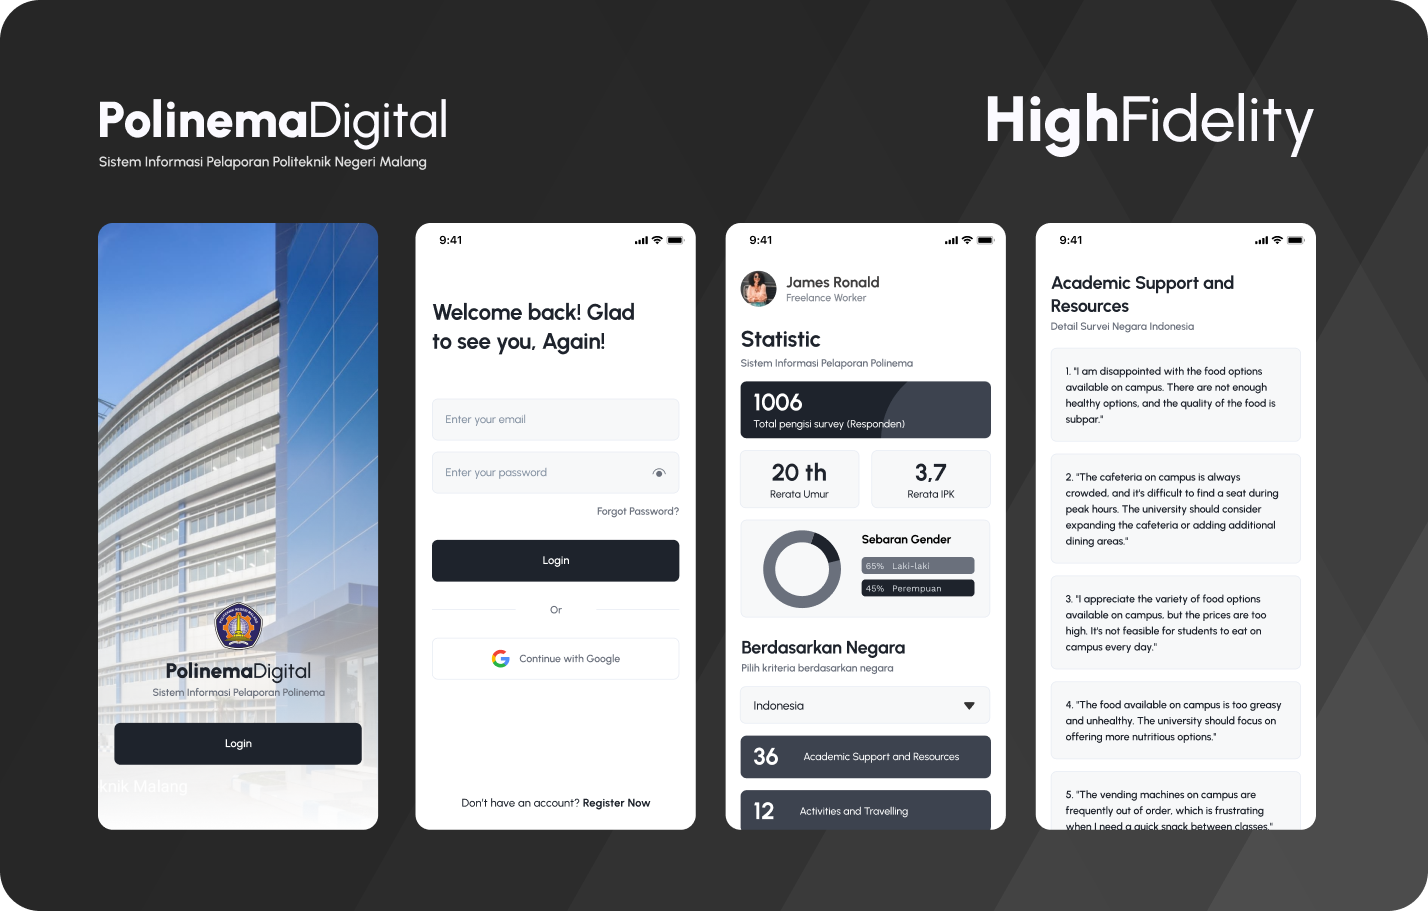
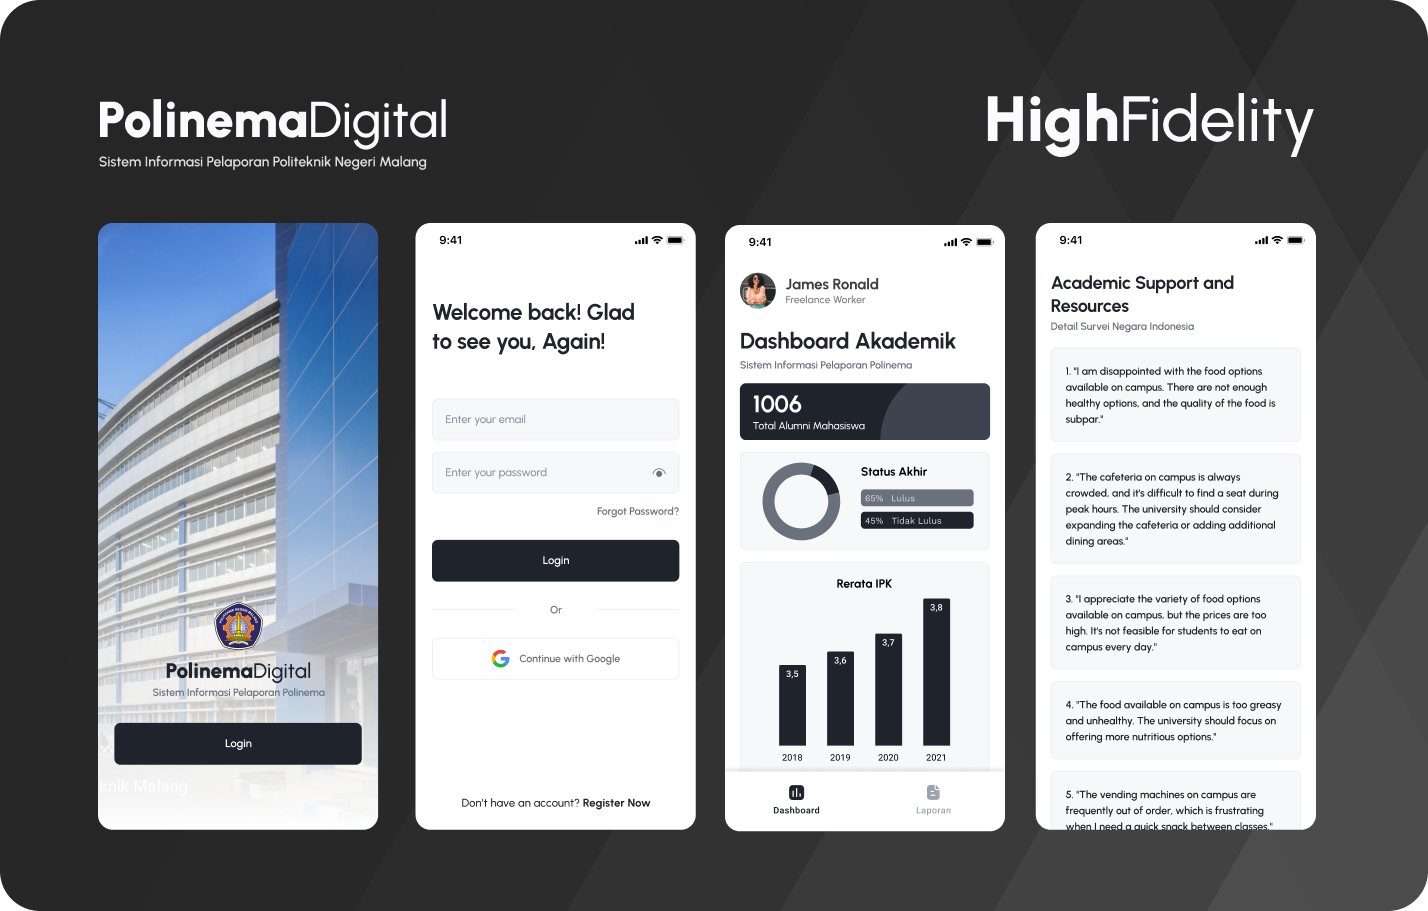
docs: update documentation (README.md)

Changed region(s): [[0.493, 0.3688, 0.7087, 0.9221], [0.493, 0.2459, 0.6162, 0.3381], [0.6471, 0.2459, 0.7087, 0.2766]]

diff --git a/README.md b/README.md
@@ -9,7 +9,7 @@
    - akun github: https://github.com/HalimTeguh
 3. M. Ilham Maulidin (2141762087) sebagai Back-End Developer (Laravel)
    - akun github: https://github.com/Maulidin-Ilham
-5. Nabila Rasyidah (2141762047) sebagai Dokumentasi
+5. Nabila Rasyidah (2141762047) sebagai Dokumentalis
    - akun github: https://github.com/nabilarasyidah
 
 &nbsp;
@@ -17,21 +17,17 @@
 #
 # ❓ The Brief…
 
-Pendidikan tinggi memainkan peran penting dalam perkembangan pribadi dan profesional mahasiswa. Salah satu aspek kunci dari pendidikan tinggi adalah kualitas layanan yang diberikan oleh institusi pendidikan. Institusi tersebut bertanggung jawab untuk menyediakan lingkungan yang mendukung pembelajaran dan perkembangan mahasiswa.
+Pendidikan tinggi memainkan peran penting dalam perkembangan pribadi dan profesional mahasiswa. Beberapa aspek kunci dari pendidikan tinggi adalah kualitas layanan yang diberikan oleh institusi pendidikan serta monitoring terhadap dinamika akademik yang terjadi. Institusi tersebut bertanggung jawab untuk menyediakan lingkungan yang mendukung pembelajaran dan perkembangan mahasiswa.
 
-Mr. X adalah seorang administrator atau staf di Politeknik Negeri Malang yang berkomitmen untuk meningkatkan kualitas layanan yang disediakan kepada mahasiswa. Untuk mencapai tujuan ini, dia merasa perlu untuk mendapatkan masukan dari para mahasiswa mengenai pengalaman mereka di kampus. Oleh karena itu, dia memutuskan untuk melakukan survei yang berfokus pada masalah komplain yang mungkin dihadapi oleh mahasiswa.
+Mr. X adalah seorang administrator atau staf di Politeknik Negeri Malang yang berkomitmen untuk meningkatkan kualitas layanan yang disediakan kepada mahasiswa. Untuk mencapai tujuan ini, dia merasa perlu untuk mendapatkan masukan dari para mahasiswa mengenai pengalaman mereka di kampus. Selain itu, dia juga perlu melakukan monitoring terhadap nilai mahasiswa serta angka kelulusan di tiap tahunnya.
 
-Survei ini difokuskan pada mahasiswa kelas Internasional, karena mereka mungkin memiliki perspektif yang berbeda atau kebutuhan khusus dalam hal sumberdaya akademik, dukungan, dan layanan lainnya. Melalui pengumpulan data dari partisipan survei ini, Mr. X berharap untuk memahami masalah yang mungkin dihadapi mahasiswa kelas Internasional dan mencari solusi untuk meningkatkan kualitas layanan.
-
-Survey ini mencakup tiga faktor utama yang menjadi perhatian, yaitu Sumberdaya dan Dukungan Akademik (Academic Support and Resources), Layanan Kantin dan Makanan (Food and Cantines), dan faktor "lainnya" yang mungkin mencakup berbagai masalah yang tidak termasuk dalam dua kategori utama tersebut. Data yang dikumpulkan dari survei ini akan memberikan wawasan awal tentang masalah yang perlu ditangani dan area di mana perbaikan diperlukan.
-
-Mr. X memutuskan untuk menggunakan aplikasi mobile sebagai alat untuk melakukan survei ini karena kepraktisan dan keterjangkauan teknologi ini. Dengan memanfaatkan aplikasi mobile, data mentah akan dikumpulkan dengan lebih efisien dan akurat, dan hasil survei ini akan membantu memandu langkah-langkah selanjutnya dalam upaya meningkatkan kualitas layanan pendidikan dan aspek pendukung di kampus.
+Mr. X memutuskan untuk menggunakan aplikasi mobile sebagai alat mengelola data akademik serta data hasil survey. Dengan memanfaatkan aplikasi mobile, data mentah akan dikumpulkan dengan lebih efisien dan akurat, dan visualisasinya akan membantu memandu langkah-langkah selanjutnya dalam upaya meningkatkan kualitas layanan pendidikan dan aspek pendukung di kampus.
 
 &nbsp;
 
 #
 # 🤔 What makes a good App?
-Karena setiap dashboard data hasil survei biasanya dibuat dengan tujuan tertentu, seperti menyajikan data survei kepada pemangku kepentingan atau menginformasikan keputusan berdasarkan data, maka kesuksesannya sangat bergantung pada seberapa informatif dan efektif desain yang kita buat.
+Karena setiap dashboard visualisasi data biasanya dibuat dengan tujuan tertentu, seperti menyajikan data survei kepada pemangku kepentingan atau menginformasikan keputusan berdasarkan data, maka kesuksesannya sangat bergantung pada seberapa informatif dan efektif desain yang kita buat.
 ![image](./Images/UserCenteredDesign.png)
 
 Berikut ini adalah beberapa poin penting yang harus di perhatikan ketika membuat sebuah desain dashboard aplikasi mobile:
@@ -48,9 +44,9 @@ Berikut ini adalah beberapa poin penting yang harus di perhatikan ketika membuat
 # ⚽ The Goals
 Setidaknya ada 2 goal yang harus dicapai pada pembangunan aplikasi ini:
 1. Business Goal
-Aplikasi ini bertujuan untuk memberikan pemangku kepentingan (seperti manajemen, fakultas, atau staf administrasi) alat yang dapat digunakan untuk membuat keputusan strategis yang didasarkan pada data survei, yang pada gilirannya akan meningkatkan kualitas layanan dan pengalaman mahasiswa.
+Aplikasi ini bertujuan untuk memberikan pemangku kepentingan (seperti manajemen, fakultas, atau staf administrasi) aplikasi dapat digunakan untuk membuat keputusan strategis yang didasarkan pada data akademik dan  survei, yang pada akhirnya akan meningkatkan kualitas layanan dan kompentensi mahasiswa.
 2. Conversion Goal
-Jika tujuan utama adalah meningkatkan jumlah mahasiswa (asumsikan peningkatan daya jual kampus), conversion goal bisa mencakup berapa banyak mahasiswa yang tetap di Politeknik Negeri Malang dan berapa peningkatan mahasiswa baru setelah perubahan yang diimplementasikan berdasarkan temuan survei.
+Jika tujuan utama adalah meningkatkan jumlah mahasiswa (asumsikan peningkatan daya jual kampus), conversion goal bisa mencakup berapa banyak mahasiswa yang tetap di Politeknik Negeri Malang dan berapa peningkatan mahasiswa baru setelah perubahan yang diimplementasikan berdasarkan temuan.
 
 &nbsp;
 
@@ -60,11 +56,12 @@ Jika tujuan utama adalah meningkatkan jumlah mahasiswa (asumsikan peningkatan da
 Penjelasan userflow di atas adalah sebagai berikut
 1. Pengguna membuka aplikasi.
 2. Setelah membuka aplikasi, pengguna dihadapkan pada pilihan. Mereka dapat memilih untuk login menggunakan email atau dengan akun Gmail yang ada.
-3. Setelah memilih metode login yang sesuai, sistem mengarahkan pengguna ke halaman beranda. Terdapat informasi pendukung seperti total responden, rerata umur, rerata ipk, sebaran gender
-4. Di halaman beranda, pengguna diberikan opsi untuk memilih negara yang ingin mereka lihat detail respon. Pengguna dapat memilih negara tertentu sesuai dengan preferensi mereka.
-5. Setelah memilih negara, sistem menampilkan informasi survei yang terkait dengan negara yang telah dipilih oleh pengguna. Informasi survei ini mungkin mencakup detail tentang survei yang sedang berlangsung atau informasi penting lainnya.
-6. Pengguna kemudian diminta untuk memilih genre atau topik permasalahan yang mereka tinjau. Ini membantu sistem untuk mengarahkan pengguna ke survei-survei yang sesuai dengan minat mereka.
-7. Setelah pengguna memilih genre atau topik permasalahan, sistem menampilkan uraian atau deskripsi semua respon dari topik permasalahan yang telah dipilih.
+3. Setelah memilih metode login yang sesuai, sistem mengarahkan pengguna ke halaman beranda. Terdapat dua navigation, yaitu Dashboard akademik dan Laporan hasil survei
+4. Di halaman Dashboard akademik, pengguna dapat melihat informasi total alumni, diagram pie status akhir, serta diagram batang rerata IPK pertahun.
+5. Kemudian user menekan tab Laporan survei. Sistem menampilkan berbagai informasi survei. Kemudian user menambahkan data survei
+6. Sistem menampilkan form dan meminta user memasukkan data yang diperlukan.
+7. User menekan tombol Simpan, dan sistem menyimpan penambahan data baru.
+8. UserFlow lain: lapor pelecehan, lihat detail survei, edit data survei
 
 &nbsp;
 
@@ -98,17 +95,31 @@ Pengguna membuka aplikasi dengan antarmuka yang modern dan menarik. Mereka langs
 
 &nbsp;
 
+![image](./Images/DashboardAkademik.png)
+![image](./Images/iPhoneAkademik.png)
+
+Halaman Dashboard menampilkan informasi terkait total alumni mahasiswa, status akhir, dan grafik rerata IPK tiap tahunnya.
+
+&nbsp;
+
 ![image](./Images/Statistik.png)
-![image](./Images/HomePage.png)
-![image](./Images/HomePageFilter.png)
+![image](./Images/iPhoneStatistic.png)
 
-Pada halaman beranda, terdapat dua section yakni "Statistik" dan "Berdasarkan Negara".
+Pada halaman Laporan statistik survey, terdapat dua section yakni "Statistik" dan "Berdasarkan Negara".
 
-Section "Statistik" menampilkan informasi terkait total pengisi survey (responden), rerata umur, rerata ipk, dan sebaran jenis kelamin.
+Section "Statistik" menampilkan informasi terkait total pengisi survey (responden), rerata umur, rerata ipk, dan sebaran jenis kelamin. Selain itu, terdapat button untuk menambahkan data survey.
 
 Pada section "Berdasarkan Negara" pengguna dapat dengan mudah memilih negara yang ingin mereka respon melalui menu drop-down yang interaktif. Sebelum memilih negera, maka menampilkan informasi jumlah respon tiap genre secara keseluruhan.
 Setelah memilih negara, sistem menampilkan informasi survei pada negara tersebut diertai jumlah respon tiap topiknya. Pengguna dapat menekan card ini untuk mendapatkan informasi lebih detail.
 
+Pengguna dapat melakukan pelaporan pelecehan dengan menekan button "Lapor Pelecehan".
+
+&nbsp;
+
+![image](./Images/Form.png)
+![image](./Images/iPhoneForm.png)
+
+Ketika pengguna menekan tombol "+" atau "Lapor Pelecehan", maka sistem akan menampilkan form yang terdiri dari beberapa field yang harus diisi.
 
 &nbsp;
 
